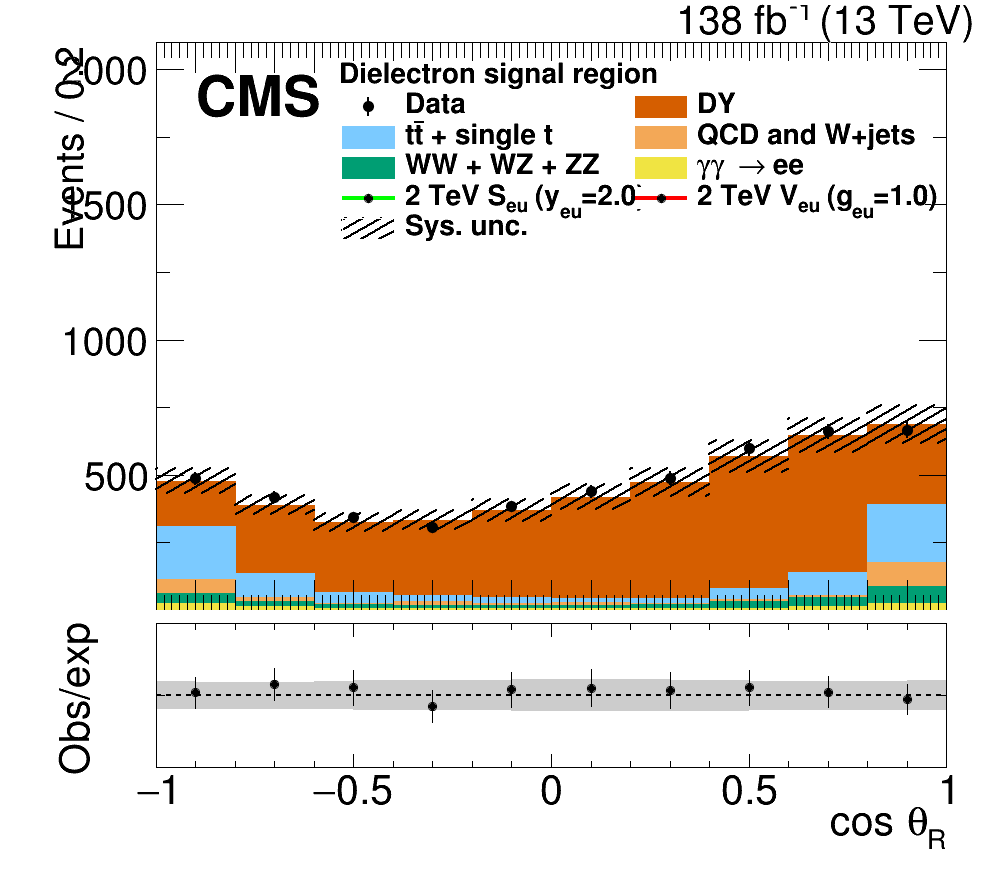
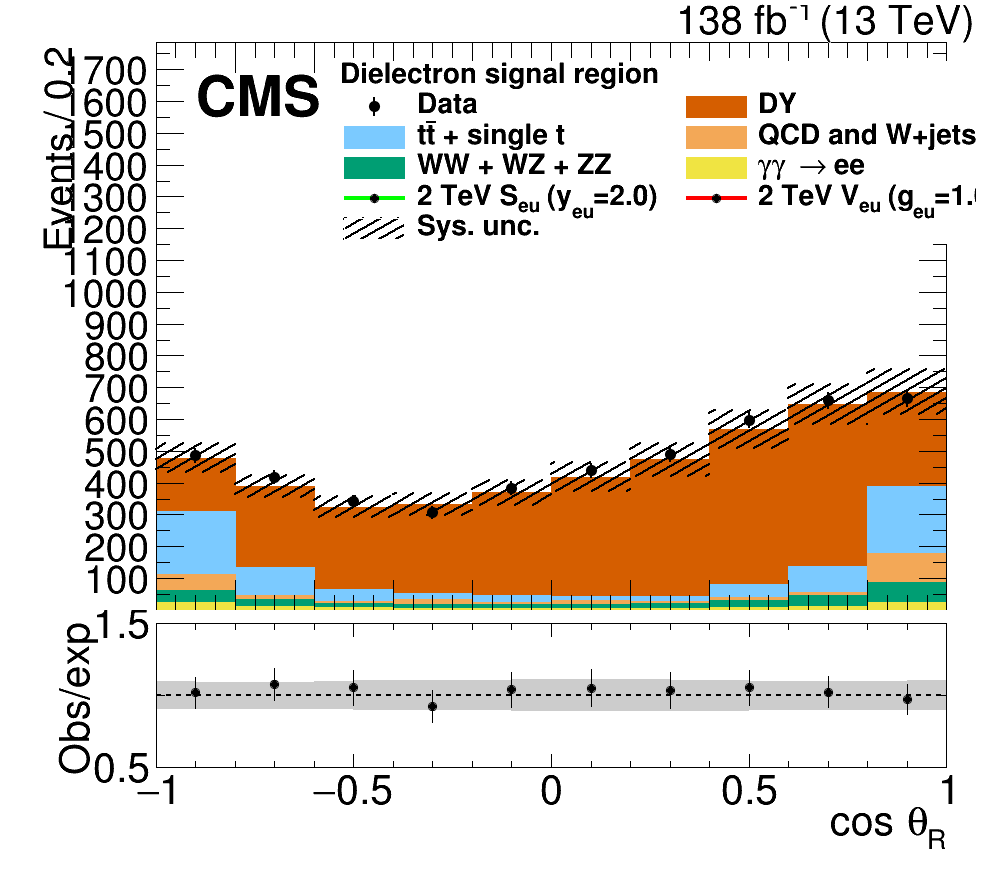
removing LQ from stack

diff --git a/plots/ElEl/draw_cmp_from_saved.C b/plots/ElEl/draw_cmp_from_saved.C
@@ -337,7 +337,7 @@ void draw_cmp_from_saved(){
 
 
 
-    float x_size = 0.6;
+    float x_size = 0.7;
     float y_size = 0.3;
 
 
@@ -418,7 +418,7 @@ void draw_cmp_from_saved(){
 
 
     int year = -1;
-    float hmax = 7000;
+    float hmax = 3000;
     //if(year == 2016)
     //    hmax *= 0.625;
     //if(year == 2017)
@@ -451,7 +451,7 @@ void draw_cmp_from_saved(){
     logy = false;
     int n_cost_bins = 10;
     float cost_bin_size = 2./n_cost_bins;
-    hmax = 2000;
+    hmax = 1700;
 
     //if(year == 2016)
     //    hmax *= 0.625;
@@ -481,7 +481,7 @@ void draw_cmp_from_saved(){
     int n_rap_bins = 20;
     float rap_bin_size = 5. / n_rap_bins;
 
-    hmax = 3250;
+    hmax = 2050;
 
     //if(year == 2016)
     //    hmax *= 0.625;

diff --git a/plots/CMS_lumi.C b/plots/CMS_lumi.C
@@ -158,7 +158,7 @@ CMS_lumi( TPad* pad, int iPeriod, int iPosX )
           latex.SetTextFont(extraTextFont);
           latex.SetTextAlign(align_);
           latex.SetTextSize(extraTextSize*t);
-          latex.DrawLatex(posX_, posY_- relExtraDY*cmsTextSize*t, extraText);
+          latex.DrawLatex(posX_, posY_- relExtraDY*cmsTextSize*t+0.1, extraText);
         }
     }
     }
